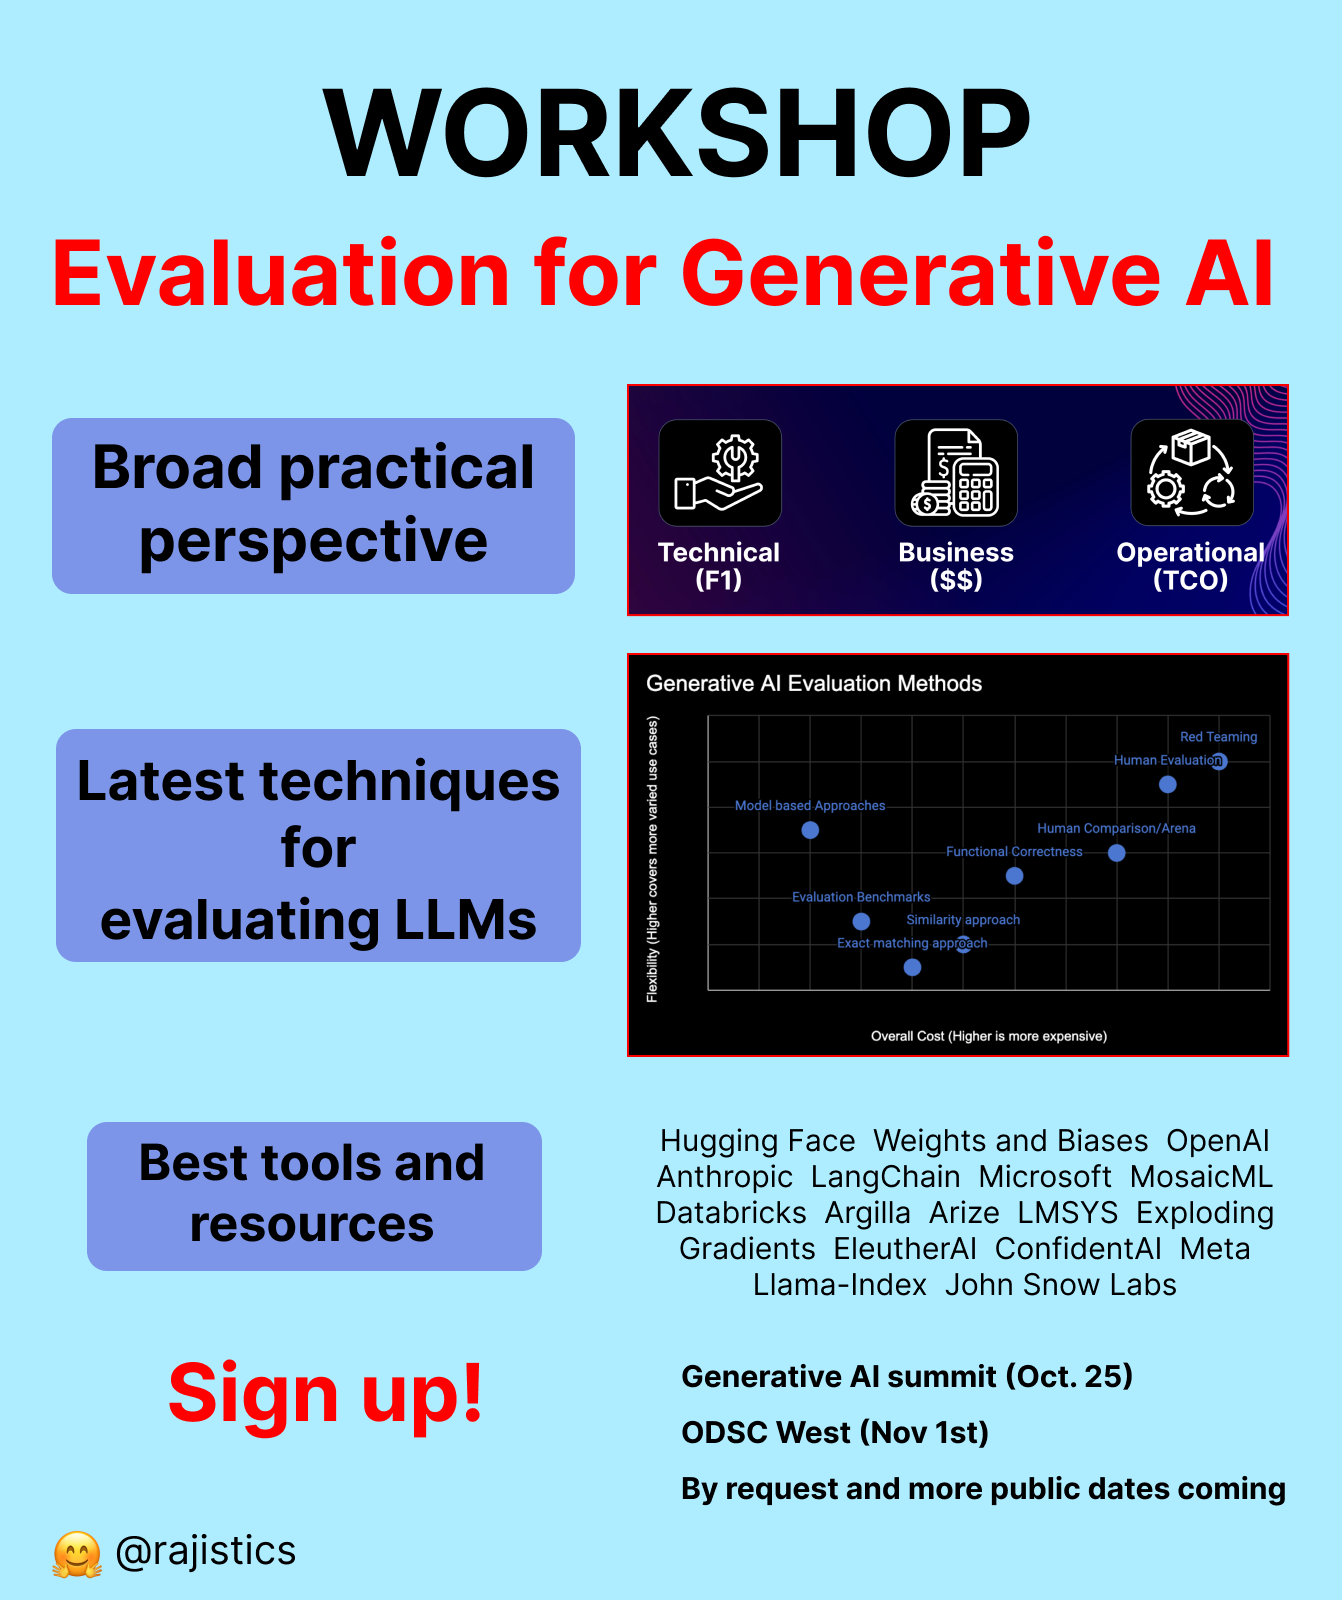
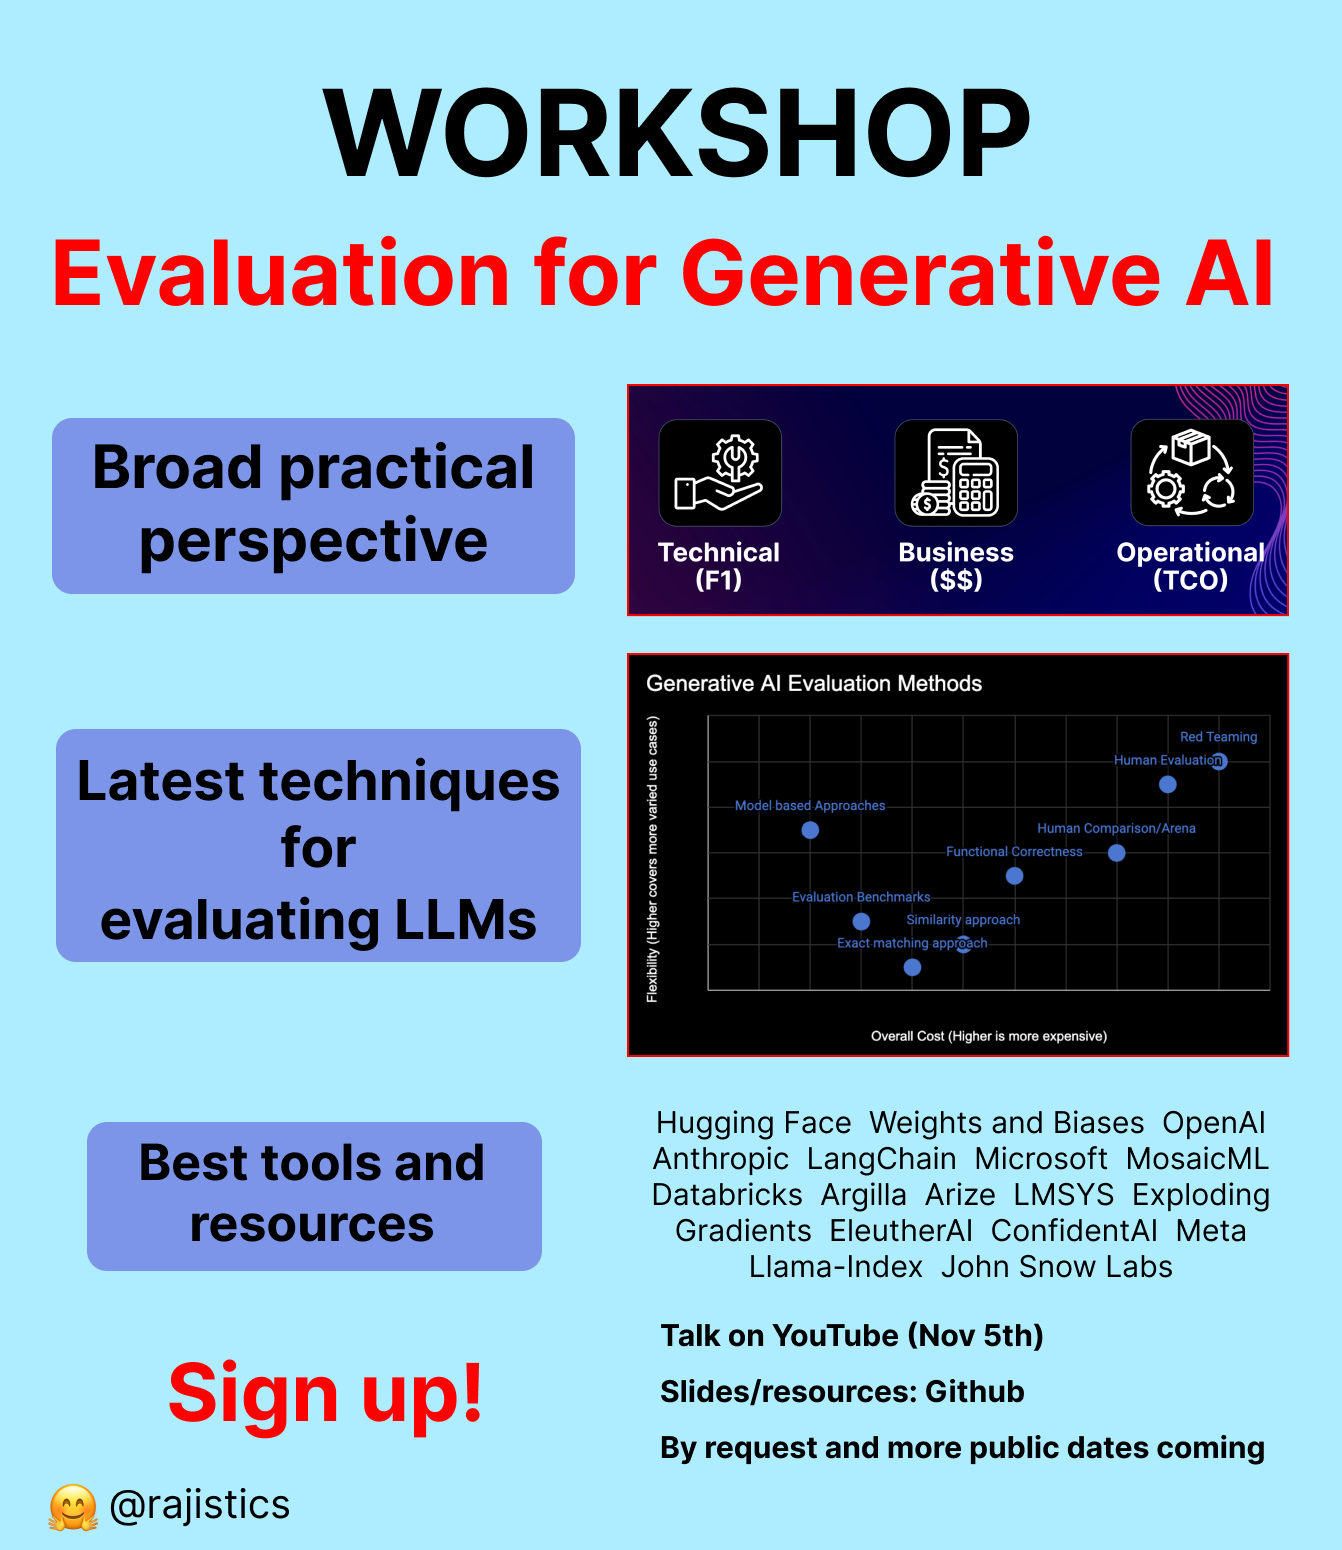
Add youtube video link

diff --git a/README.md b/README.md
@@ -35,6 +35,9 @@ Generative AI Summit, Austin (Oct 2023) - [Slides](presentation_slides/Evaluatin
 
 ODSC West, San Francisco (Nov 2023) - [Slides](presentation_slides/EvaluatingLLMs_ODSC_Nov2023_Shah.pdf)
 
+## Videos
+Evaluation for Large Language Models and Generative AI - A Deep Dive - [Youtube](https://youtu.be/iQl03pQlYWY)
+
 
 ## Other Additional Resources
 Josh Tobin's Evaluation talk [YouTube](https://youtu.be/r-HUnht-Gns?si=5vU3RzXf7Jkprwn1)
